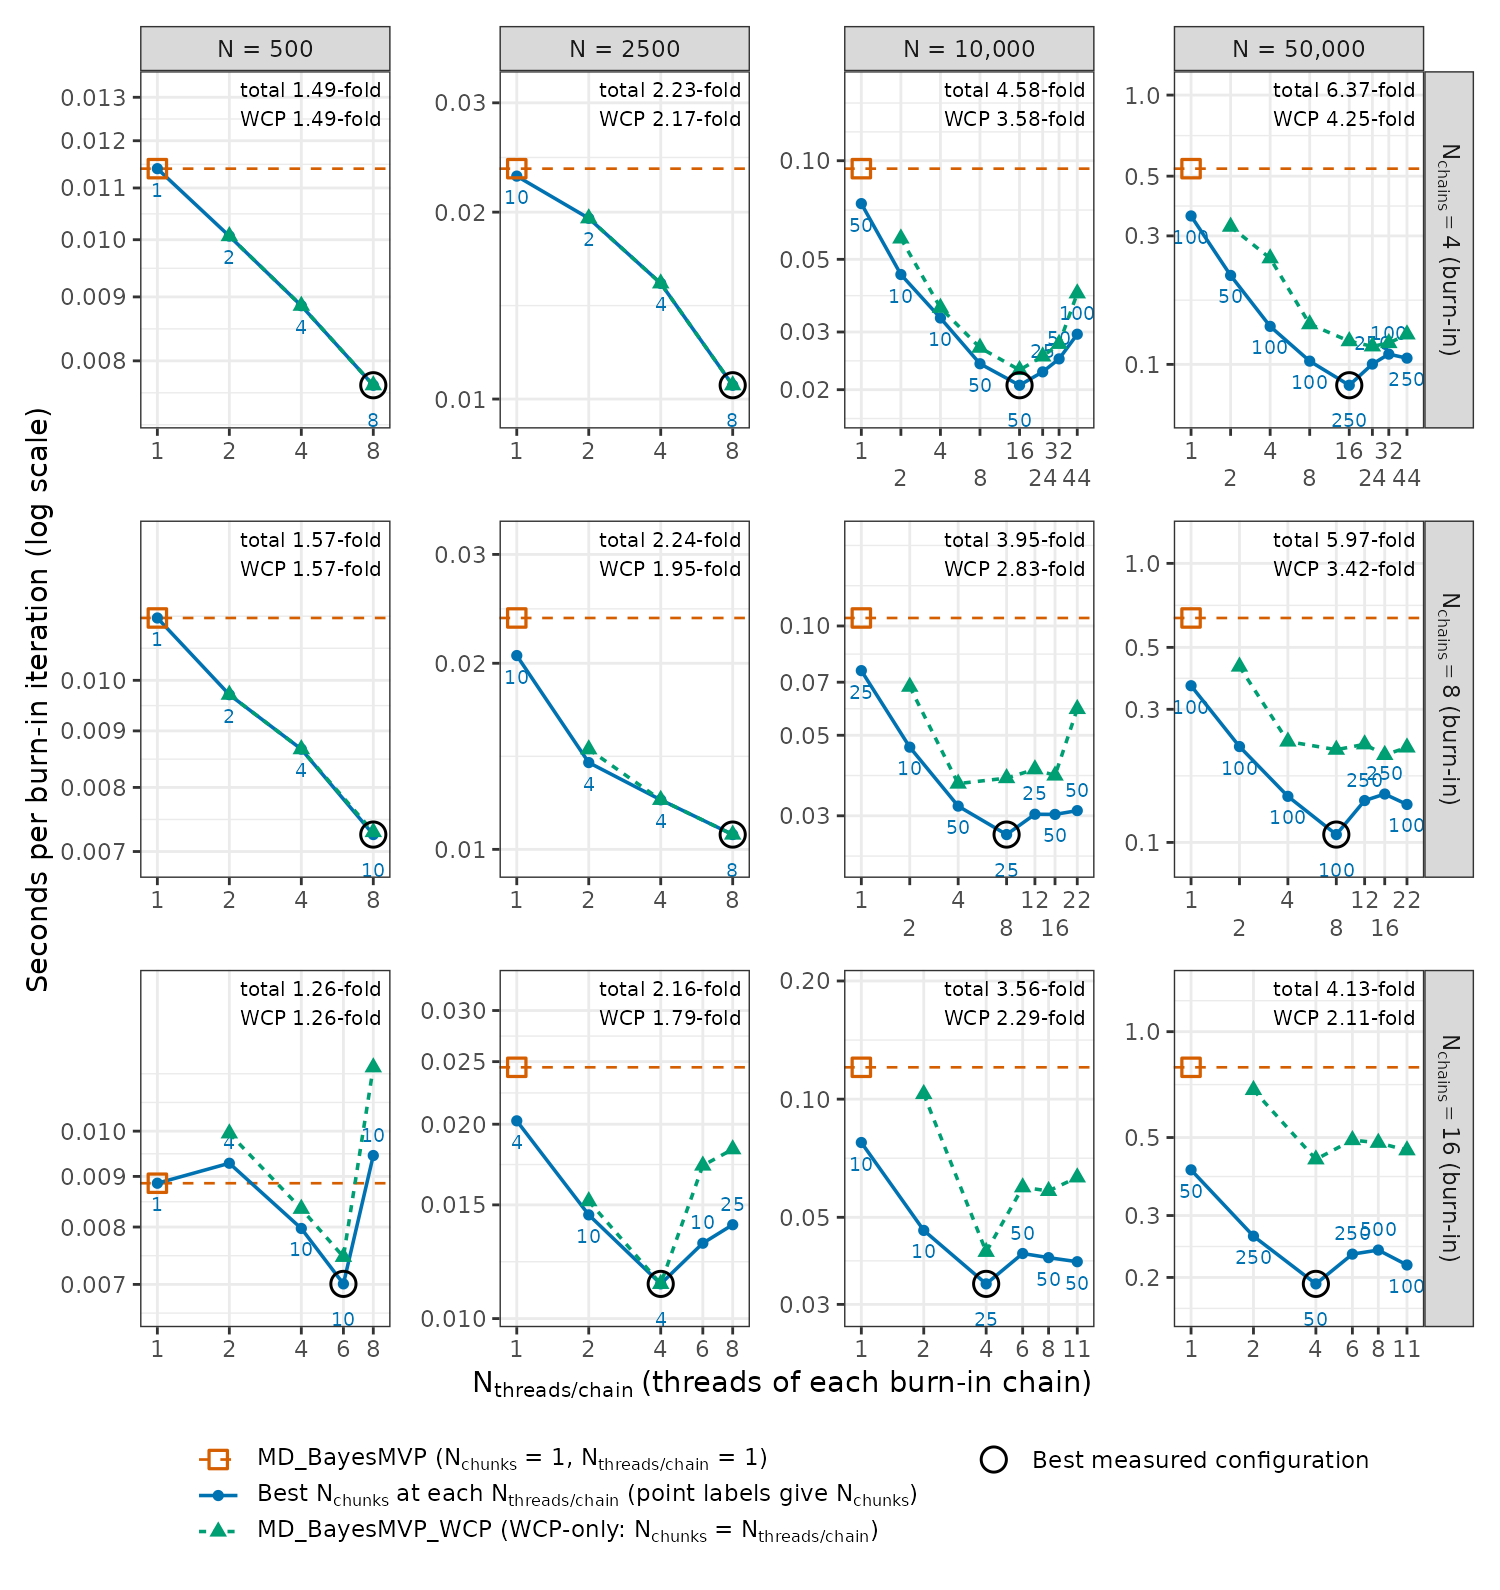
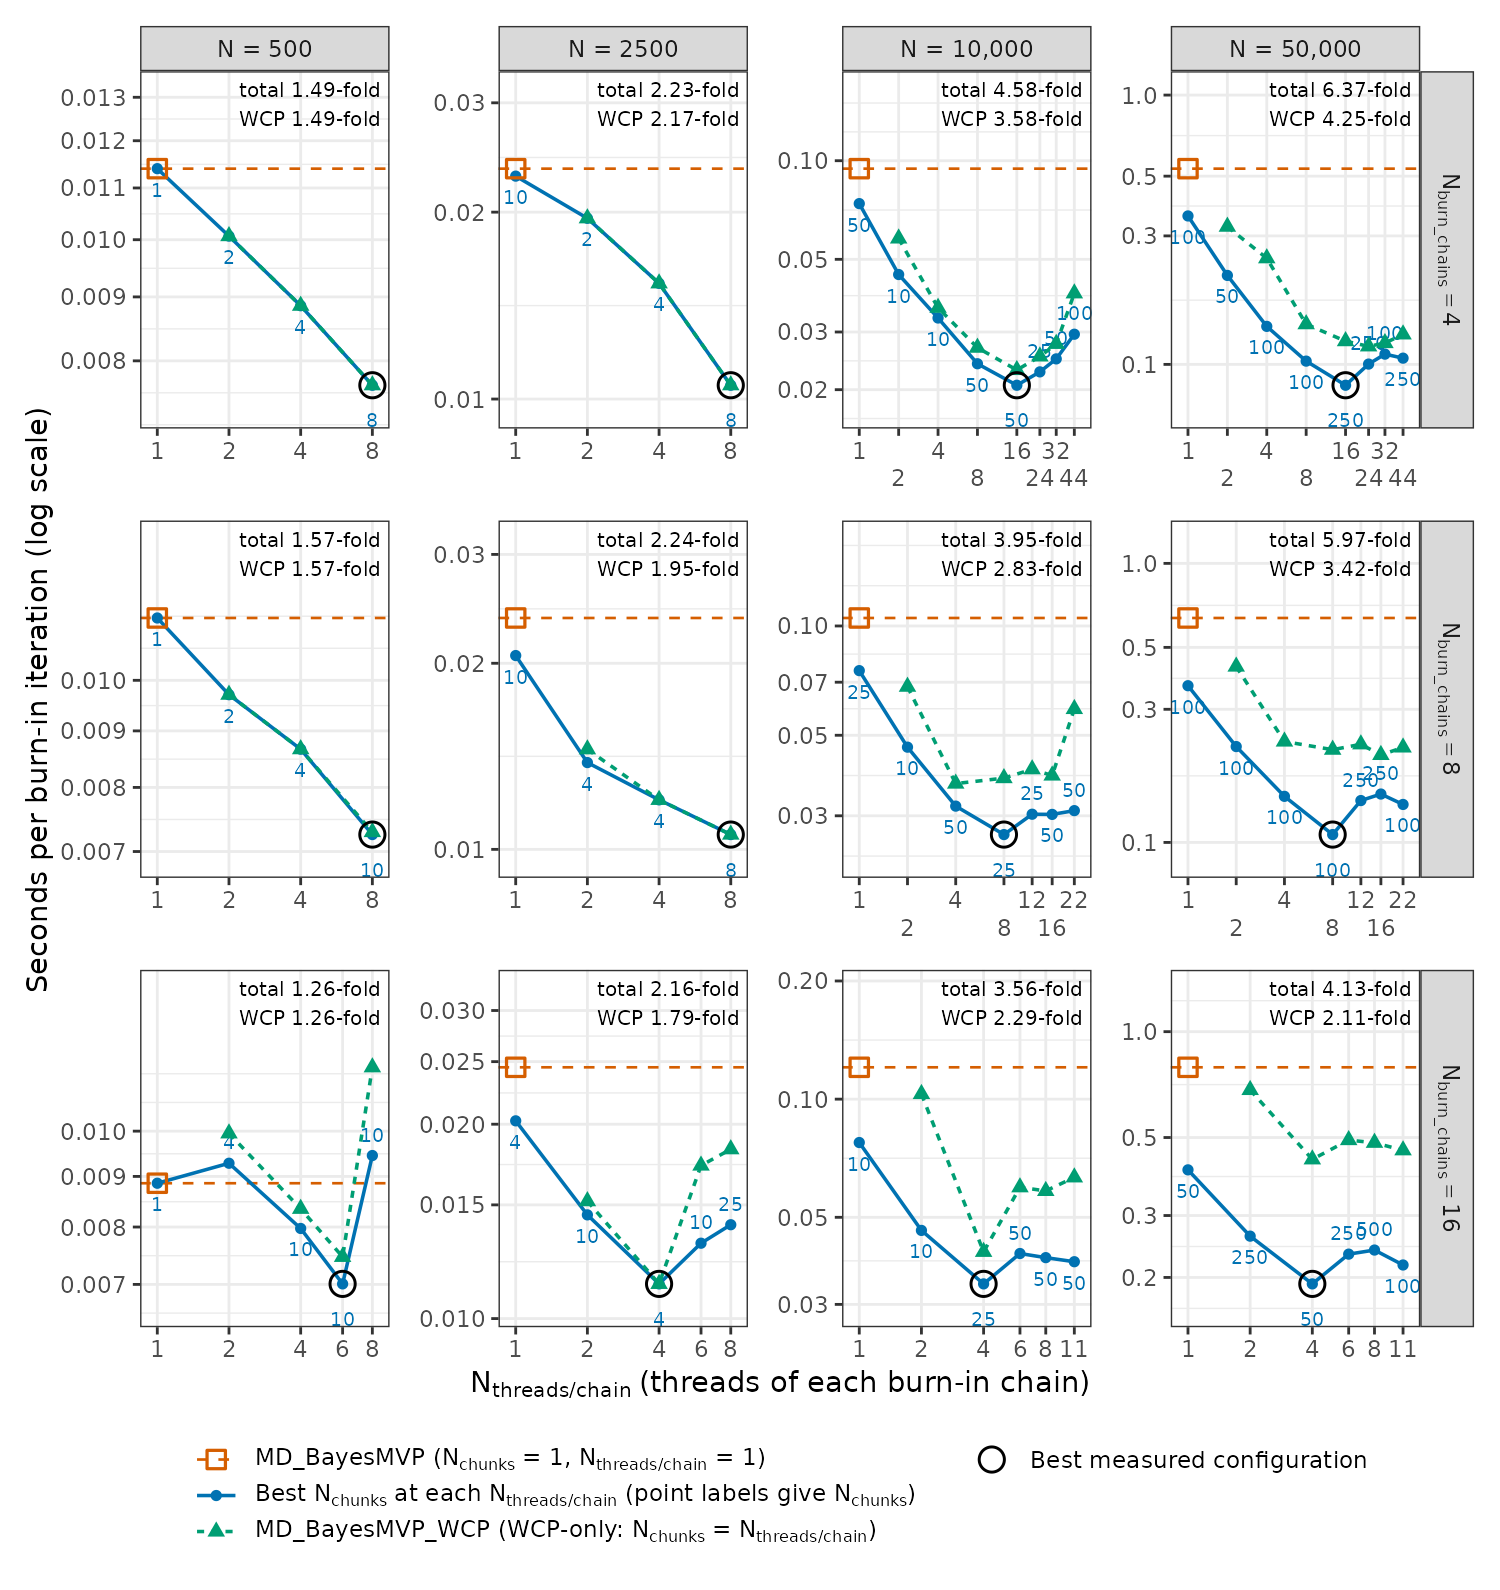
Paper 1: burn-in table as one selected configuration per model, device and N; N_burn_chains in the burn-in figures

diff --git a/results/tables/table_burnin_selected_configurations.tex b/results/tables/table_burnin_selected_configurations.tex
@@ -1,76 +1,128 @@
 \begin{table}[H]
 \scriptfootnotesize
 \centering
+%%%% ---- previous version (one row per burn-in N_chains) ---- %%%%
+% \caption{
+% \scriptfootnotesize{
+%     Selected burn-in configurations, given as $N_{\text{threads/chain}}$/$N_{\text{chunks}}$,
+%     i.e., the configuration with the lowest mean seconds per burn-in iteration
+%     for each device, burn-in $N_{\text{chains}}$ and $N$
+%     (the circled points in figures \ref{S:figure:burnin_chunk_WCP_comparison_local_HPC},
+%     % \ref{S:figure:burnin_chunk_WCP_comparison_laptop} and \ref{S:figure:burnin_chunk_WCP_comparison_Stan};
+%     \ref{S:figure:burnin_chunk_WCP_comparison_laptop}, 
+%     \ref{S:figure:burnin_chunk_WCP_comparison_Stan}
+%     and \ref{S:figure:burnin_chunk_WCP_comparison_Stan_laptop};
+%     see sections \ref{section:paper1_burnin_design} and \ref{section:paper1_stan_burnin_design}). \\
+%     %%
+%     For NicoStan+BayesMVP,
+%     $^{\dagger}$ marks WCP-only (\texttt{MD\_\allowbreak BayesMVP\_\allowbreak WCP};
+%     $N_{\text{chunks}} = N_{\text{threads/chain}}$),
+%     $^{\ddagger}$ chunking-only (\texttt{MD\_\allowbreak BayesMVP\_\allowbreak chunking};
+%     $N_{\text{threads/chain}} = 1$),
+%     and $^{*}$ neither (\texttt{MD\_BayesMVP});
+%     every other entry is \texttt{MD\_\allowbreak BayesMVP\_\allowbreak WCP\_\allowbreak chunking}. \\
+%     %%
+%     %     For the Stan model, every entry is \texttt{AD\_Stan\_WCP\_chunking}
+%     %     (i.e., $N_{\text{chunks}} > N_{\text{threads/chain}} > 1$).
+%     % For the Stan model, every entry is \texttt{AD\_Stan\_WCP\_chunking}
+%     For the Stan model (NicoStan), every entry is \texttt{AD\_Stan\_WCP\_chunking}
+%     (i.e., $N_{\text{chunks}} > N_{\text{threads/chain}} > 1$). \\
+%     For Stan via cmdstanr (burn-in $N_{\text{chains}} = 4$ only;
+%     see section \ref{section:paper1_stan_cmdstanr_burnin_design}),
+%     $^{\dagger}$ marks \texttt{AD\_Stan\_WCP}; every other entry is \texttt{AD\_Stan\_WCP\_chunking}. \\
+%     $^{\S}$the largest $N_{\text{chunks}}$ tested for that $N$. \\
+%     %%
+%     $^{\P}$within $1\%$ of the second-fastest configuration
+%     % (8/8$^{\dagger}$, 2/250 and 6/25, respectively).
+%     (8/8$^{\dagger}$, 2/250, 6/25 and 44/44$^{\dagger}$, respectively).
+% }}
+% \label{table:paper1_burnin_selected_configurations}
+% \PaperOneFitTable{
+% \begin{tabular}{lllcccc}
+% \hline
+%  & & Burn-in & \multicolumn{4}{c}{$N$} \\
+% Model & Device & $N_{\text{chains}}$ & $500$ & $2500$ & $10,000$ & $50,000$ \\ \hline
+% NicoStan+BayesMVP & local-HPC & 4  & 8/8$^{\dagger}$ & 8/8$^{\dagger}$ & 16/50 & 16/250 \\
+% %%%% ---- to check ---- %%%%
+% %                   &           & 8  & 8/10 & 8/8$^{\dagger}$ & 8/25 & 8/100 \\
+% %                   &           & 16 & 6/10 & 4/4$^{\dagger}$ & 4/25 & 4/50 \\
+% %%%% ---- to check ---- %%%%
+% %                   &           & 8  & 8/10$^{\S}$ & 8/8$^{\dagger}$ & 8/25 & 8/100 \\
+%                   &           & 8  & 8/10$^{\S\P}$ & 8/8$^{\dagger}$ & 8/25 & 8/100 \\
+%                   &           & 16 & 6/10$^{\S}$ & 4/4$^{\dagger}$ & 4/25 & 4/50 \\
+%                   & laptop    & 4  & 1/1$^{*}$ & 2/4 & 2/50 & 2/100 \\
+% %%%% ---- to check ---- %%%%
+% %                   &           & 8  & 1/1$^{*}$ & 1/10$^{\ddagger}$ & 1/25$^{\ddagger}$ & 1/250$^{\ddagger}$ \\
+%                   &           & 8  & 1/1$^{*}$ & 1/10$^{\ddagger}$ & 1/25$^{\ddagger}$ & 1/250$^{\ddagger\P}$ \\
+% \hline
+% %%%% ---- to check ---- %%%%
+% % Stan model        & local-HPC & 4  & 8/10 & 8/25 & 16/50 & 16/250 \\
+% %                   &           & 8  & 4/10 & 8/25 & 12/50 & 16/500 \\
+% %                   &           & 16 & 8/10 & 8/25 & 11/100 & 11/500 \\
+% %                   & laptop    & 4  & 4/10 & 4/50 & 4/250 & 4/1000 \\
+% %                   &           & 8  & 2/10 & 2/50 & 2/250 & 2/1000 \\
+% % Stan model        & local-HPC & 4  & 8/10$^{\S}$ & 8/25 & 16/50 & 16/250 \\
+% Stan model (NicoStan) & local-HPC & 4  & 8/10$^{\S}$ & 8/25 & 16/50 & 16/250 \\
+%                   &           & 8  & 4/10$^{\S}$ & 8/25 & 12/50 & 16/500 \\
+% %%%% ---- to check ---- %%%%
+% %                   &           & 16 & 8/10$^{\S}$ & 8/25 & 11/100 & 11/500 \\
+%                   &           & 16 & 8/10$^{\S}$ & 8/25$^{\P}$ & 11/100 & 11/500 \\
+%                   & laptop    & 4  & 4/10$^{\S}$ & 4/50 & 4/250 & 4/1000 \\
+%                   &           & 8  & 2/10$^{\S}$ & 2/50 & 2/250 & 2/1000 \\
+% \hline
+% Stan model (cmdstanr) & local-HPC & 4  & 44/44$^{\dagger}$ & 44/44$^{\dagger}$ & 44/50$^{\P}$ & 44/500 \\
+%                       & laptop    & 4  & 4/10 & 4/50 & 4/250 & 4/1000 \\
+% \hline
+% \end{tabular}
 \caption{
 \scriptfootnotesize{
-    Selected burn-in configurations, given as $N_{\text{threads/chain}}$/$N_{\text{chunks}}$,
-    i.e., the configuration with the lowest mean seconds per burn-in iteration
-    for each device, burn-in $N_{\text{chains}}$ and $N$
-    (the circled points in figures \ref{S:figure:burnin_chunk_WCP_comparison_local_HPC},
-    % \ref{S:figure:burnin_chunk_WCP_comparison_laptop} and \ref{S:figure:burnin_chunk_WCP_comparison_Stan};
-    \ref{S:figure:burnin_chunk_WCP_comparison_laptop}, 
+    Selected burn-in configuration for each model, device and $N$,
+    given as $N_{\text{burn\_chains}} \times N_{\text{threads/chain}}$/$N_{\text{chunks}}$,
+    i.e., the configuration with the largest speed-up in seconds per burn-in iteration
+    over all $N_{\text{burn\_chains}}$
+    (the best of the circled points at each $N$ in figures
+    \ref{S:figure:burnin_chunk_WCP_comparison_local_HPC},
+    \ref{S:figure:burnin_chunk_WCP_comparison_laptop},
     \ref{S:figure:burnin_chunk_WCP_comparison_Stan}
-    and \ref{S:figure:burnin_chunk_WCP_comparison_Stan_laptop};
-    see sections \ref{section:paper1_burnin_design} and \ref{section:paper1_stan_burnin_design}). \\
+    and \ref{S:figure:burnin_chunk_WCP_comparison_Stan_laptop}). \\
     %%
-    For NicoStan+BayesMVP,
-    $^{\dagger}$ marks WCP-only (\texttt{MD\_\allowbreak BayesMVP\_\allowbreak WCP};
-    $N_{\text{chunks}} = N_{\text{threads/chain}}$),
-    $^{\ddagger}$ chunking-only (\texttt{MD\_\allowbreak BayesMVP\_\allowbreak chunking};
-    $N_{\text{threads/chain}} = 1$),
-    and $^{*}$ neither (\texttt{MD\_BayesMVP});
-    every other entry is \texttt{MD\_\allowbreak BayesMVP\_\allowbreak WCP\_\allowbreak chunking}. \\
+    The speed-up is relative to $N_{\text{threads/chain}} = 1$ at the same $N_{\text{burn\_chains}}$,
+    with $N_{\text{chunks}} = 1$ for NicoStan+BayesMVP,
+    the best $N_{\text{chunks}}$ for the Stan model via NicoStan,
+    and \texttt{AD\_Stan} for the Stan model via cmdstanr (with $N_{\text{burn\_chains}} = 4$ only;
+    see sections \ref{section:paper1_burnin_design}, \ref{section:paper1_stan_burnin_design}
+    and \ref{section:paper1_stan_cmdstanr_burnin_design}). \\
     %%
-    %     For the Stan model, every entry is \texttt{AD\_Stan\_WCP\_chunking}
-    %     (i.e., $N_{\text{chunks}} > N_{\text{threads/chain}} > 1$).
-    % For the Stan model, every entry is \texttt{AD\_Stan\_WCP\_chunking}
-    For the Stan model (NicoStan), every entry is \texttt{AD\_Stan\_WCP\_chunking}
-    (i.e., $N_{\text{chunks}} > N_{\text{threads/chain}} > 1$). \\
-    For Stan via cmdstanr (burn-in $N_{\text{chains}} = 4$ only;
-    see section \ref{section:paper1_stan_cmdstanr_burnin_design}),
-    $^{\dagger}$ marks \texttt{AD\_Stan\_WCP}; every other entry is \texttt{AD\_Stan\_WCP\_chunking}. \\
-    $^{\S}$the largest $N_{\text{chunks}}$ tested for that $N$. \\
+    An entry is WCP-only if $N_{\text{chunks}} = N_{\text{threads/chain}} > 1$
+    (\texttt{MD\_\allowbreak BayesMVP\_\allowbreak WCP} or \texttt{AD\_\allowbreak Stan\_\allowbreak WCP}),
+    chunking-only if $N_{\text{threads/chain}} = 1 < N_{\text{chunks}}$
+    (\texttt{MD\_\allowbreak BayesMVP\_\allowbreak chunking}),
+    neither if $N_{\text{threads/chain}} = N_{\text{chunks}} = 1$ (\texttt{MD\_BayesMVP}),
+    and chunking + WCP otherwise
+    (\texttt{MD\_\allowbreak BayesMVP\_\allowbreak WCP\_\allowbreak chunking}
+    or \texttt{AD\_\allowbreak Stan\_\allowbreak WCP\_\allowbreak chunking}). \\
     %%
-    $^{\P}$within $1\%$ of the second-fastest configuration
-    % (8/8$^{\dagger}$, 2/250 and 6/25, respectively).
-    (8/8$^{\dagger}$, 2/250, 6/25 and 44/44$^{\dagger}$, respectively).
+    $^{\S}$the largest $N_{\text{chunks}}$ tested for that $N$.
+    $^{\P}$within $1\%$ of the second-best configuration
+    ($8 \times 8$/8, $4 \times 8$/8, $8 \times 2$/250 and $4 \times 44$/44, respectively).
 }}
 \label{table:paper1_burnin_selected_configurations}
 \PaperOneFitTable{
-\begin{tabular}{lllcccc}
+\begin{tabular}{lcccc}
 \hline
- & & Burn-in & \multicolumn{4}{c}{$N$} \\
-Model & Device & $N_{\text{chains}}$ & $500$ & $2500$ & $10,000$ & $50,000$ \\ \hline
-NicoStan+BayesMVP & local-HPC & 4  & 8/8$^{\dagger}$ & 8/8$^{\dagger}$ & 16/50 & 16/250 \\
-%%%% ---- to check ---- %%%%
-%                   &           & 8  & 8/10 & 8/8$^{\dagger}$ & 8/25 & 8/100 \\
-%                   &           & 16 & 6/10 & 4/4$^{\dagger}$ & 4/25 & 4/50 \\
-%%%% ---- to check ---- %%%%
-%                   &           & 8  & 8/10$^{\S}$ & 8/8$^{\dagger}$ & 8/25 & 8/100 \\
-                  &           & 8  & 8/10$^{\S\P}$ & 8/8$^{\dagger}$ & 8/25 & 8/100 \\
-                  &           & 16 & 6/10$^{\S}$ & 4/4$^{\dagger}$ & 4/25 & 4/50 \\
-                  & laptop    & 4  & 1/1$^{*}$ & 2/4 & 2/50 & 2/100 \\
-%%%% ---- to check ---- %%%%
-%                   &           & 8  & 1/1$^{*}$ & 1/10$^{\ddagger}$ & 1/25$^{\ddagger}$ & 1/250$^{\ddagger}$ \\
-                  &           & 8  & 1/1$^{*}$ & 1/10$^{\ddagger}$ & 1/25$^{\ddagger}$ & 1/250$^{\ddagger\P}$ \\
+ & \multicolumn{4}{c}{$N$} \\
+Device & $500$ & $2500$ & $10,000$ & $50,000$ \\ \hline
+\multicolumn{5}{l}{NicoStan+BayesMVP} \\
+local-HPC & $8 \times 8$/10$^{\S\P}$ & $8 \times 8$/8$^{\P}$ & $4 \times 16$/50 & $4 \times 16$/250 \\
+laptop    & 4 or $8 \times 1$/1 & $8 \times 1$/10 & $8 \times 1$/25 & $8 \times 1$/250$^{\P}$ \\
 \hline
-%%%% ---- to check ---- %%%%
-% Stan model        & local-HPC & 4  & 8/10 & 8/25 & 16/50 & 16/250 \\
-%                   &           & 8  & 4/10 & 8/25 & 12/50 & 16/500 \\
-%                   &           & 16 & 8/10 & 8/25 & 11/100 & 11/500 \\
-%                   & laptop    & 4  & 4/10 & 4/50 & 4/250 & 4/1000 \\
-%                   &           & 8  & 2/10 & 2/50 & 2/250 & 2/1000 \\
-% Stan model        & local-HPC & 4  & 8/10$^{\S}$ & 8/25 & 16/50 & 16/250 \\
-Stan model (NicoStan) & local-HPC & 4  & 8/10$^{\S}$ & 8/25 & 16/50 & 16/250 \\
-                  &           & 8  & 4/10$^{\S}$ & 8/25 & 12/50 & 16/500 \\
-%%%% ---- to check ---- %%%%
-%                   &           & 16 & 8/10$^{\S}$ & 8/25 & 11/100 & 11/500 \\
-                  &           & 16 & 8/10$^{\S}$ & 8/25$^{\P}$ & 11/100 & 11/500 \\
-                  & laptop    & 4  & 4/10$^{\S}$ & 4/50 & 4/250 & 4/1000 \\
-                  &           & 8  & 2/10$^{\S}$ & 2/50 & 2/250 & 2/1000 \\
+\multicolumn{5}{l}{Stan model (via NicoStan)} \\
+local-HPC & $4 \times 8$/10$^{\S}$ & $8 \times 8$/25 & $4 \times 16$/50 & $4 \times 16$/250 \\
+laptop    & $4 \times 4$/10$^{\S}$ & $4 \times 4$/50 & $4 \times 4$/250 & $4 \times 4$/1000 \\
 \hline
-Stan model (cmdstanr) & local-HPC & 4  & 44/44$^{\dagger}$ & 44/44$^{\dagger}$ & 44/50$^{\P}$ & 44/500 \\
-                      & laptop    & 4  & 4/10 & 4/50 & 4/250 & 4/1000 \\
+\multicolumn{5}{l}{Stan model (via cmdstanr)} \\
+local-HPC & $4 \times 44$/44 & $4 \times 44$/44 & $4 \times 44$/50$^{\P}$ & $4 \times 44$/500 \\
+laptop    & $4 \times 4$/10$^{\S}$ & $4 \times 4$/50 & $4 \times 4$/250 & $4 \times 4$/1000 \\
 \hline
 \end{tabular}
 }
